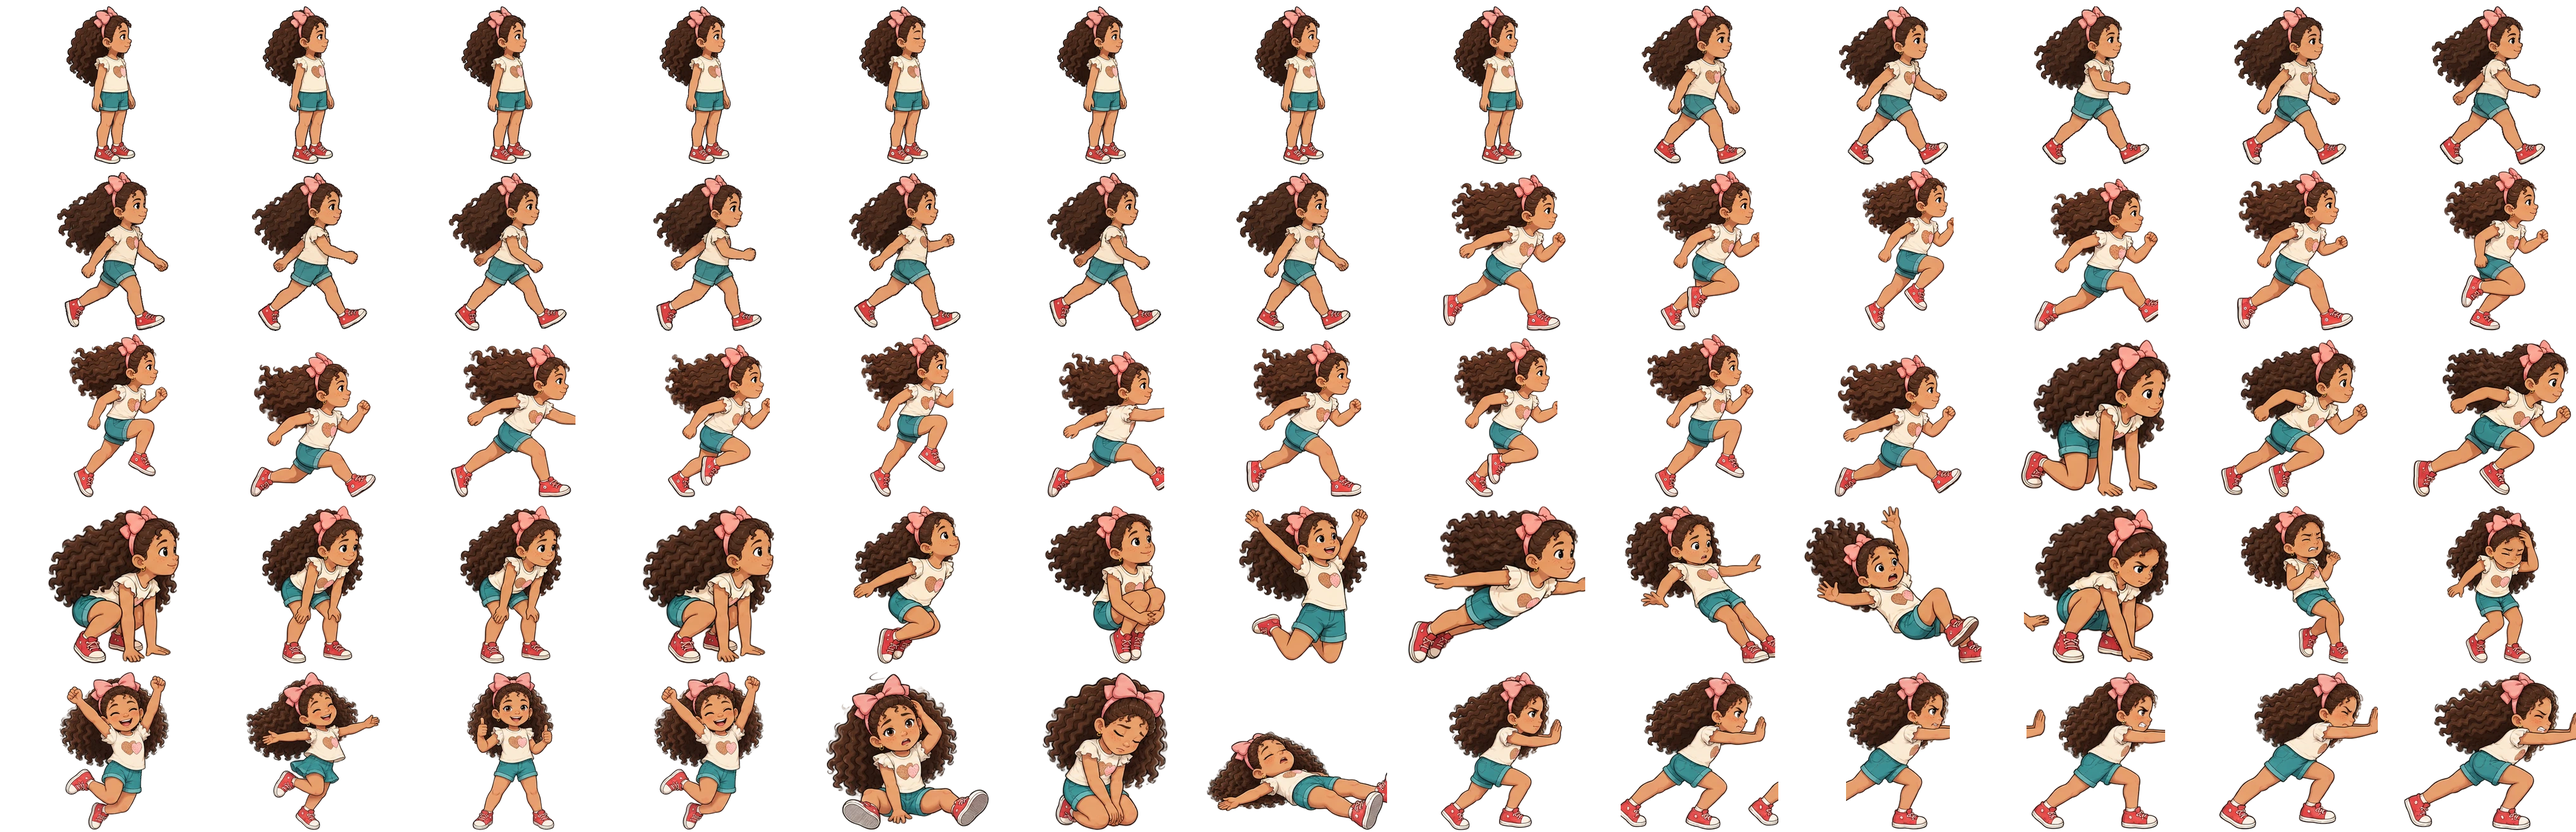
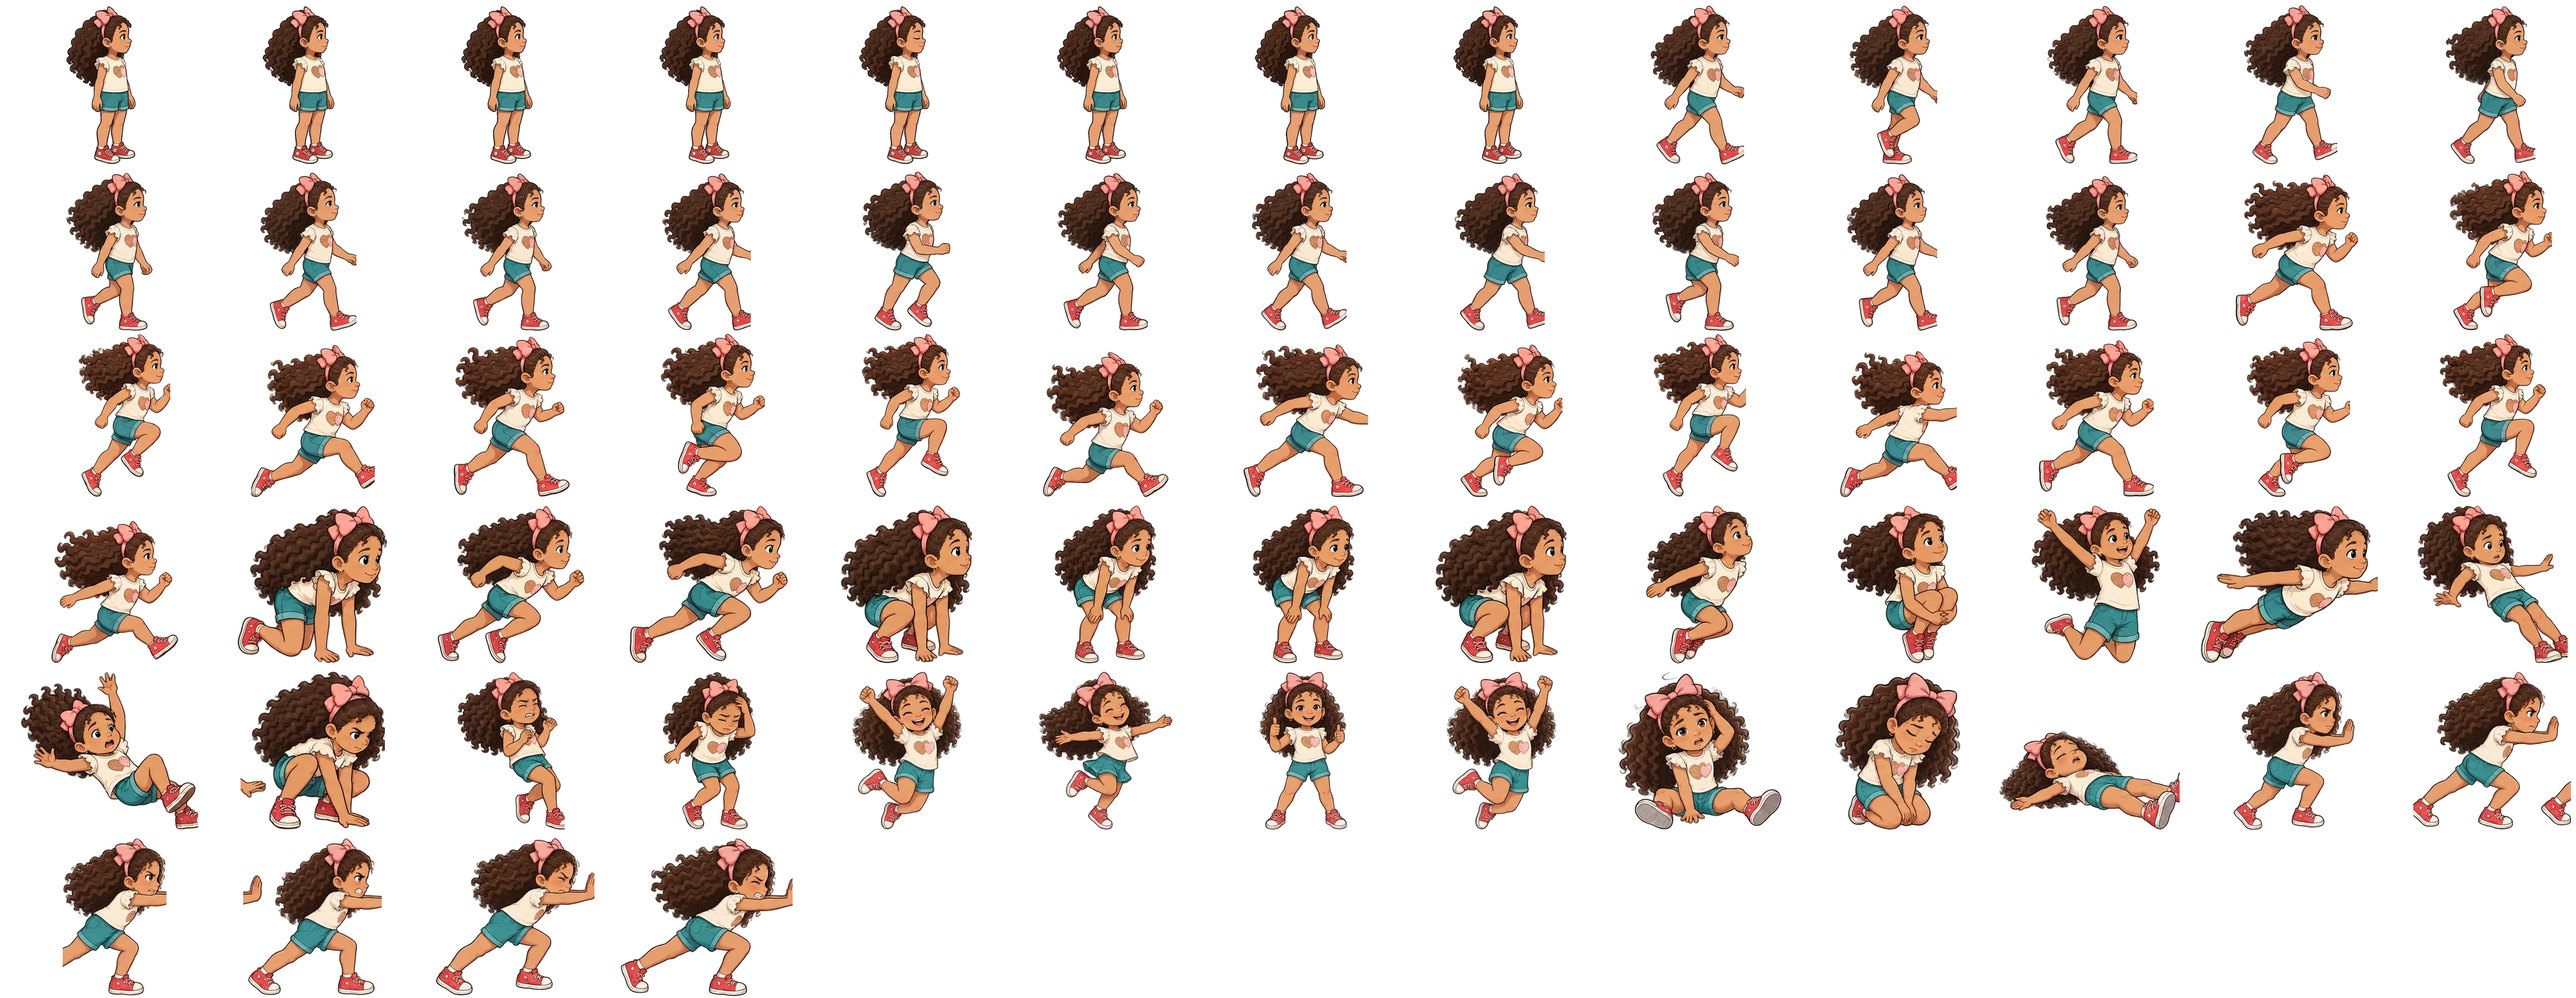
Walk cycle expanded 12 -> 16 distinct phases (ChatGPT take4); base sheet grows to 6 rows (69 slots), run/start/stop/jump/air/fall/land/hurt/celebrate/defeat/push remapped; walk fps 24; validator PASS

diff --git a/src/assets/sprites.gen.ts b/src/assets/sprites.gen.ts
@@ -20,84 +20,84 @@ export const SPRITES = {
       },
       "walk": {
         "start": 8,
-        "end": 19,
-        "fps": 18,
+        "end": 23,
+        "fps": 24,
         "repeat": -1,
         "h": 239
       },
       "run": {
-        "start": 20,
-        "end": 35,
+        "start": 24,
+        "end": 39,
         "fps": 26,
         "repeat": -1,
         "h": 228
       },
       "start": {
-        "start": 36,
-        "end": 38,
+        "start": 40,
+        "end": 42,
         "fps": 18,
         "repeat": 0,
         "h": 248
       },
       "stop": {
-        "start": 39,
-        "end": 41,
+        "start": 43,
+        "end": 45,
         "fps": 14,
         "repeat": 0,
         "h": 243
       },
       "jump": {
-        "start": 42,
-        "end": 45,
+        "start": 46,
+        "end": 49,
         "fps": 20,
         "repeat": 0,
         "h": 232
       },
       "air": {
-        "start": 46,
-        "end": 46,
+        "start": 50,
+        "end": 50,
         "fps": 1,
         "repeat": -1,
         "h": 220
       },
       "fall": {
-        "start": 47,
-        "end": 48,
+        "start": 51,
+        "end": 52,
         "fps": 6,
         "repeat": -1,
         "h": 246
       },
       "land": {
-        "start": 49,
-        "end": 49,
+        "start": 53,
+        "end": 53,
         "fps": 1,
         "repeat": 0,
         "h": 208
       },
       "hurt": {
-        "start": 50,
-        "end": 51,
+        "start": 54,
+        "end": 55,
         "fps": 10,
         "repeat": 0,
         "h": 204
       },
       "celebrate": {
-        "start": 52,
-        "end": 55,
+        "start": 56,
+        "end": 59,
         "fps": 7,
         "repeat": -1,
         "h": 222
       },
       "defeat": {
-        "start": 56,
-        "end": 58,
+        "start": 60,
+        "end": 62,
         "fps": 5,
         "repeat": 0,
         "h": 180
       },
       "push": {
-        "start": 59,
-        "end": 64,
+        "start": 63,
+        "end": 68,
         "fps": 9,
         "repeat": -1,
         "h": 220
